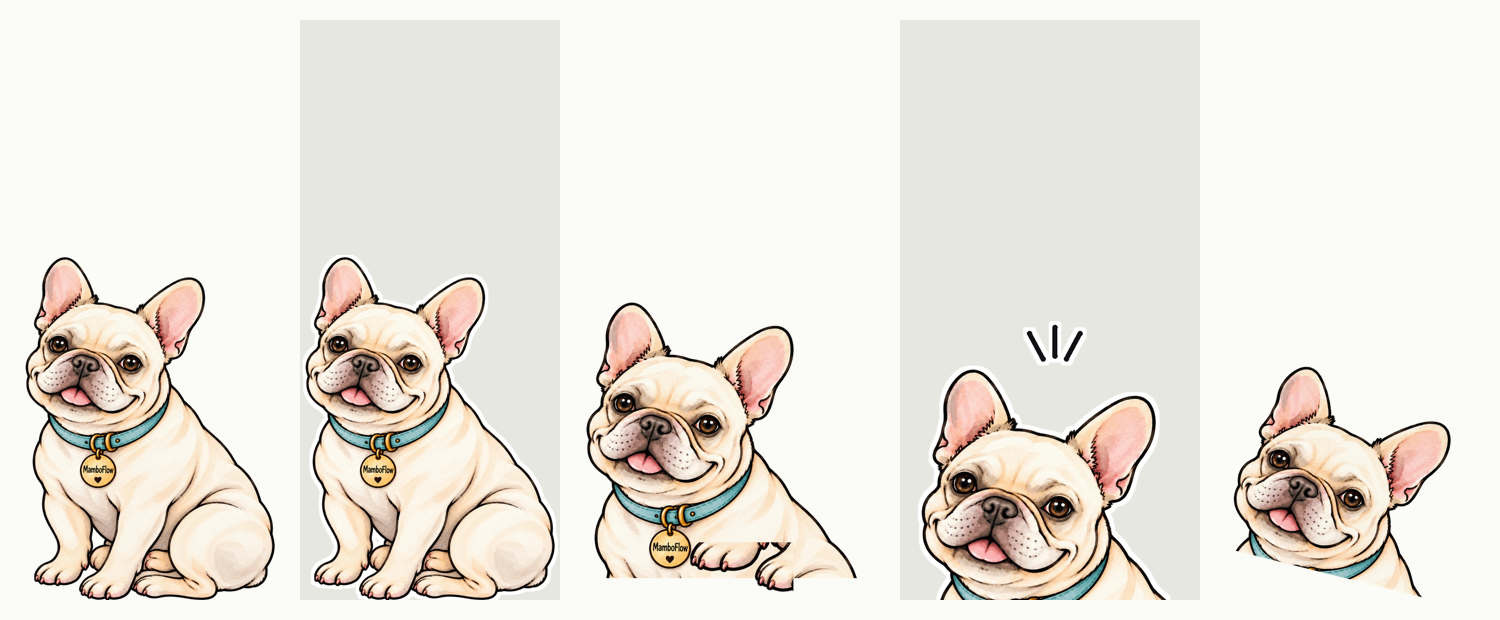
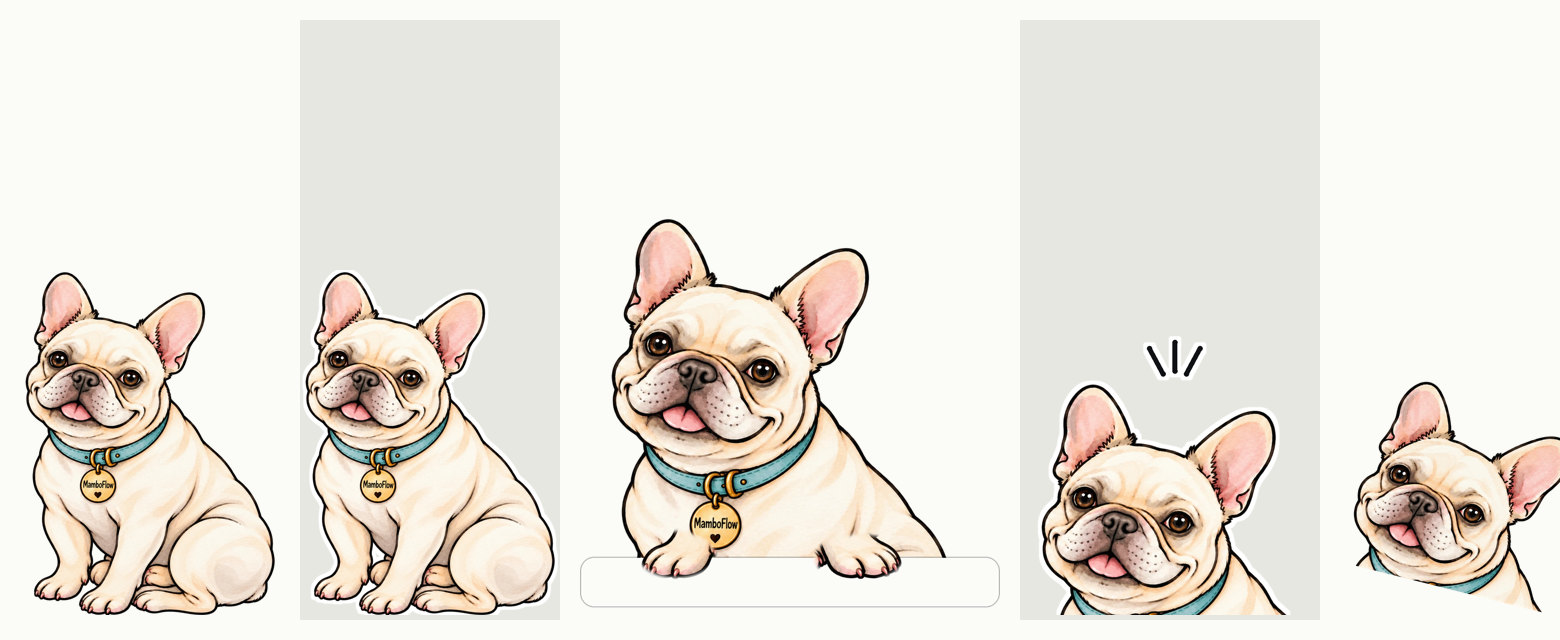
Add the peek pose: Mambo over a ledge with his paws, and the peek phone screen
Cuts Mambo's own front paws from the drawing with soft elliptical masks
and lays them on a paper ledge in front of his head, collar and charm.
Ships the peek as one image, a die-cut sticker, and head and paws
layers. Rebuilds the color mobile welcome screen around it, with the
mustard, coral and teal half-circles behind him and the script lockup
on top. Fixes the Sign in button, which rendered solid on both mobile
screens. Board and README updated.

Claude-Session: https://claude.ai/code/session_01PSNkhtJjPwNzdydLD5UDQg

Changed region(s): [[0.0, 0.3371, 1.0, 0.9806]]

diff --git a/branding/mamboflow/source/assets.html b/branding/mamboflow/source/assets.html
@@ -143,23 +143,20 @@ img.m{position:absolute;display:block}
 #mobile .lk{position:absolute;left:0;right:0;top:392px}
 #mobile .btn{position:absolute;left:28px;right:28px;height:52px;display:flex;align-items:center;justify-content:center;font-size:13px;letter-spacing:.14em;text-transform:uppercase;font-weight:650}
 #mobile .b1{top:520px;background:var(--ink);color:#fff}
-#mobile .b2{top:586px;border:1px solid var(--ink)}
+#mobile .b2{top:586px;border:1px solid var(--ink);background:transparent;color:var(--ink)}
 #mobile .foot{position:absolute;left:0;right:0;top:720px;display:grid;justify-items:center;gap:8px}
 #mobile .foot img{width:16px} #mobile .foot i{display:block;width:1px;height:30px;background:var(--line)}
-/* mobile 2: lockup on top, Mambo and paws over colour half-circles */
+/* mobile 2: peek over the sheet, colour half-circles behind */
 #mobile2{width:390px;height:844px}
-#mobile2 .lk{position:absolute;left:0;right:0;top:110px}
-#mobile2 .tag{position:absolute;left:0;right:0;top:230px;text-align:center;font-family:var(--serif);font-size:20px;color:var(--ink)}
+#mobile2 .lk{position:absolute;left:0;right:0;top:58px}
+#mobile2 .tag{position:absolute;left:0;right:0;top:158px;text-align:center;font-family:var(--serif);font-size:20px;color:var(--ink)}
 #mobile2 .circ{position:absolute;border-radius:50%}
-#mobile2 .dog{position:absolute;left:-10px;bottom:-6px;width:410px}
-#mobile2 .btn{position:absolute;left:28px;right:28px;height:52px;display:flex;align-items:center;justify-content:center;font-size:13px;letter-spacing:.14em;text-transform:uppercase;font-weight:650;z-index:2}
-#mobile2 .b1{top:300px;background:var(--ink);color:#fff}
-#mobile2 .b2{top:366px;border:1px solid var(--ink)}
-#lock-square{width:1000px;height:1000px;background:transparent}
-#lock-square .panel{left:260px;top:110px;width:480px;height:540px}
-#lock-square img.m{left:270px;top:80px;width:460px}
-#lock-square .lk{position:absolute;left:70px;top:716px}
-#lock-square .lk .by{left:calc(var(--W)*.27);width:var(--W);text-align:center;padding-left:.34em;box-sizing:border-box;font-size:calc(var(--W)*.03)}
+#mobile2 .head{position:absolute;left:5.8px;top:294.4px;width:378.4px}
+#mobile2 .sheet{position:absolute;left:0;right:0;top:640px;bottom:0;background:var(--paper);border-radius:30px 30px 0 0;border:1px solid var(--line);border-bottom:0}
+#mobile2 .paws{position:absolute;left:5.8px;top:611.2px;width:378.4px}
+#mobile2 .btn{position:absolute;left:28px;right:28px;height:52px;display:flex;align-items:center;justify-content:center;font-size:13px;letter-spacing:.14em;text-transform:uppercase;font-weight:650}
+#mobile2 .b1{top:680px;background:var(--ink);color:#fff}
+#mobile2 .b2{top:744px;border:1px solid var(--ink);background:transparent;color:var(--ink)}
 /* pattern tiles 600x600 */
 .tile{width:600px;height:600px}
 </style></head><body>
@@ -237,7 +234,7 @@ img.m{position:absolute;display:block}
 <div class="frame" id="coins"><div><img src="../patterns/spark-mustard.svg"></div><div style="color:#101114"><svg viewBox="-50 -50 100 100"><g stroke="currentColor" stroke-width="3" fill="none"><line x1="-44" y1="0" x2="44" y2="0"/><line x1="0" y1="-44" x2="0" y2="44"/><line x1="-31" y1="-31" x2="31" y2="31"/><line x1="-31" y1="31" x2="31" y2="-31"/></g><g fill="currentColor"><circle cx="44" cy="0" r="5"/><circle cx="-44" cy="0" r="5"/><circle cx="0" cy="44" r="5"/><circle cx="0" cy="-44" r="5"/><circle cx="31" cy="31" r="5"/><circle cx="-31" cy="-31" r="5"/><circle cx="31" cy="-31" r="5"/><circle cx="-31" cy="31" r="5"/><circle r="6"/></g></svg></div><div style="color:#3fa9a6"><svg viewBox="0 0 100 100"><path fill="currentColor" d="M50 2 C62 22 78 38 98 50 C78 62 62 78 50 98 C38 78 22 62 2 50 C22 38 38 22 50 2Z"/></svg></div></div>
 <div class="frame" id="icon-teal"><div class="sq"><img src="../mascot/mambo-cream-head.png" alt=""></div></div>
 <div class="frame" id="mobile"><div class="paper"><img src="../patterns/argyle-atomic-fine.svg"></div><img class="dog" src="../mascot/mambo-cream-peek-paws.png"><div class="wall"></div><div class="lk center" style="--W:270px"><img class="mk" src="../igc/igc-mark-black.png" alt=""><img class="wmi" src="../wordmark/mamboflow-script-black.png" alt="MamboFlow"><p class="by">By In Good Company</p><img class="sp" src="../patterns/spark-mustard.svg" alt=""></div><div class="btn b1">Get started</div><div class="btn b2">Sign in</div><div class="foot"><img src="../patterns/spark-mustard.svg"><i></i></div></div>
-<div class="frame" id="mobile2"><div class="lk center" style="--W:250px"><img class="mk" src="../igc/igc-mark-black.png" alt=""><img class="wmi" src="../wordmark/mamboflow-script-black.png" alt="MamboFlow"><p class="by">By In Good Company</p><img class="sp" src="../patterns/spark-mustard.svg" alt=""></div><div class="tag">Social, in good company.</div><div class="btn b1">Get started</div><div class="btn b2">Sign in</div><div class="circ" style="left:-90px;top:470px;width:300px;height:300px;background:#e2b03a"></div><div class="circ" style="left:170px;top:430px;width:320px;height:320px;background:#e2563f"></div><div class="circ" style="left:60px;top:560px;width:260px;height:260px;background:#3fa9a6"></div><img class="dog" src="../mascot/mambo-cream-peek-paws.png"></div>
+<div class="frame" id="mobile2"><div class="lk center" style="--W:250px"><img class="mk" src="../igc/igc-mark-black.png" alt=""><img class="wmi" src="../wordmark/mamboflow-script-black.png" alt="MamboFlow"><p class="by">By In Good Company</p><img class="sp" src="../patterns/spark-mustard.svg" alt=""></div><div class="tag">Social, in good company.</div><div class="circ" style="left:66px;top:304px;width:270px;height:270px;background:#e2b03a"></div><div class="circ" style="left:-90px;top:414px;width:200px;height:200px;background:#e2563f"></div><div class="circ" style="left:300px;top:384px;width:180px;height:180px;background:#3fa9a6"></div><img class="head" src="../mascot/mambo-peek-head-layer.png" alt=""><div class="sheet"></div><img class="paws" src="../mascot/mambo-peek-paws-layer.png" alt=""><div class="btn b1">Get started</div><div class="btn b2">Sign in</div></div>
 
 <div class="frame" id="lock-square"><div class="panel"><img src="../patterns/argyle-atomic-fine.svg"></div><img class="m" src="../mascot/mambo-cream.png" alt=""><div class="lk" style="--W:660px"><img class="mk" src="../igc/igc-mark-black.png" alt=""><img class="wmi" src="../wordmark/mamboflow-script-black.png" alt="MamboFlow"><p class="by">By In Good Company</p><img class="sp" src="../patterns/spark-mustard.svg" alt=""></div></div>
 <!-- Pattern tiles -->

diff --git a/branding/mamboflow/board/index.html b/branding/mamboflow/board/index.html
@@ -170,7 +170,7 @@ a{color:var(--ink)}
   </div>
   <ul class="rows" style="margin-top:clamp(32px,5vw,64px)">
     <li><b>Always</b><span>His coat is cream, the collar teal, the charm gold. Use the supplied poses; never redraw him.</span></li>
-    <li><b>Never</b><span>Recolor him, add effects, flip him so the charm reads backward, or crop below the collar in a lockup. A true paws-on-the-ledge pose needs a new drawing; the peek here is cut from the sit and only works where a ledge hides the seam.</span></li>
+    <li><b>Never</b><span>Recolor him, add effects, flip him so the charm reads backward, or crop below the collar in a lockup. The peek is built from his sitting drawing: his head and collar, plus his own front paws laid on a ledge that hides the cut. A straight-on face like the reference needs a new drawing.</span></li>
     <li><b>Small sizes</b><span>Use Stamp below 64px. The head alone is the avatar. The full body is for lockups and posts.</span></li>
   </ul>
 </section>
@@ -283,7 +283,7 @@ a{color:var(--ink)}
   </div>
   <div class="grid g2" style="margin-top:clamp(16px,2.4vw,34px);align-items:start">
     <div><div class="plate"><img src="img/mobile-welcome.png" alt="Mobile welcome screen: the paper at the top, Mambo peeking over a paper-white curve, the script lockup, and two buttons" width="390" height="844" style="max-width:300px"></div><div class="cap"><b>Mobile welcome</b><span>390 × 844</span></div></div>
-    <div><div class="plate"><img src="img/mobile-color.png" alt="Mobile welcome, color version: the lockup on top, Mambo and his paws over mustard, coral, and teal half-circles" width="390" height="844" style="max-width:300px"></div><div class="cap"><b>Mobile welcome · color</b><span>390 × 844</span></div></div>
+    <div><div class="plate"><img src="img/mobile-color.png" alt="Mobile welcome, peek version: the script lockup on top, Mambo peeking over the button sheet with his paws on its edge, in front of mustard, coral, and teal half-circles" width="390" height="844" style="max-width:300px"></div><div class="cap"><b>Mobile welcome · peek</b><span>390 × 844</span></div></div>
     <div><div class="plate flush"><img src="img/sig.png" alt="Email signature strip with Mambo, the wordmark, the mark, and contact details" width="600" height="140"></div><div class="cap"><b>Email signature</b><span>600 × 140</span></div></div>
   </div>
   <div class="grid g2" style="margin-top:clamp(16px,2.4vw,34px);align-items:start">

diff --git a/branding/mamboflow/README.md b/branding/mamboflow/README.md
@@ -16,7 +16,8 @@ In Good Company is the parent brand. MamboFlow is an endorsed product. It carrie
 | Path | What it is |
 | --- | --- |
 | `mascot/mambo-cream.png` | In use everywhere. The original art, trimmed, transparent background. |
-| `mascot/mambo-cream-sticker.png`, `mambo-cream-excited.png`, `mambo-cream-excited-sticker.png`, `mambo-cream-head.png`, `mambo-cream-peek-corner.png`, `mambo-cream-peek-paws.png`, `mambo-cream-peek-ledge.png` | Poses cut from the drawing: sticker, excited, head, corner peek, peek with paws (use only where a ledge hides the seam), peek on a paper ledge. |
+| `mascot/mambo-cream-sticker.png`, `mambo-cream-excited.png`, `mambo-cream-excited-sticker.png`, `mambo-cream-head.png`, `mambo-cream-peek-corner.png`, `mambo-cream-peek-ledge.png`, `mambo-cream-peek-sticker.png` | Poses cut from the drawing: sticker, excited, head, corner peek, and the peek over a paper ledge with his own paws resting on it (with a die-cut sticker version). |
+| `mascot/mambo-peek-head-layer.png`, `mambo-peek-paws-layer.png` | The peek as two layers, head and paws, so a layout can put its own ledge or button sheet between them. The paws layer is positioned from the head layer's top-left at the offset used in `source/assets.html`. |
 | `wordmark/mamboflow-script-black.png`, `-white.png`, `swoosh-teal.svg` | The script wordmark as artwork, lifted from Maddie's reference and cleaned; black and white; the optional teal swoosh. Not a font. Trace to vector before large print. |
 | `mascot/mambo-pop-teal.png` | Black-and-white coat with the teal collar and gold charm. Quiet alternate. |
 | `mascot/mambo-pop-{pink,mustard,red}.png` | Alternate collar colors, same charm. |
@@ -32,7 +33,7 @@ In Good Company is the parent brand. MamboFlow is an endorsed product. It carrie
 | `social/post-quote.png`, `post-announce.png` | Post templates, 1080 x 1080. Headlines are placeholder copy. |
 | `app/icon-teal.png`, `icon.png`, `icon-dark.png`, `fav.png` | App icon on Collar Teal (in use), paper and ink alternates, favicon source. |
 | `app/card.png`, `card-back.png`, `coins.png` | Business card front and back, 3.5 x 2 in at 300 dpi, and the three glyph coins. |
-| `app/mobile-welcome.png`, `mobile-color.png` | Two mobile welcome screens, 390 x 844. |
+| `app/mobile-welcome.png`, `mobile-color.png` | Two mobile welcome screens, 390 x 844: the paper version, and the peek version with Mambo over the button sheet and color half-circles. |
 | `app/signin.png` | Sign-in screen mockup, 1440 x 900. |
 | `app/sig.png` | Email signature strip, 600 x 140. |
 | `patterns/*.svg`, `patterns/tile-*.png` | Argyle Atomic (coarse and fine), Foyer, Lattice, and the mustard sparkle cell, as scalable SVG and 600 x 600 PNG tiles. |
